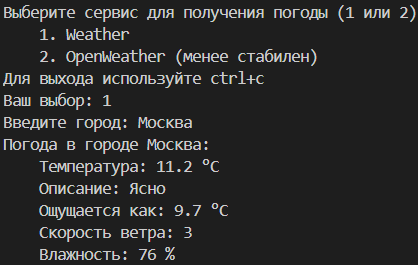
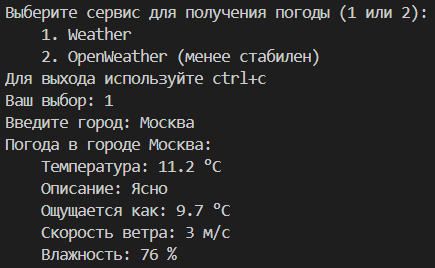
reply text fix. modified image for README file

Changed region(s): [[0.0, 0.1811, 0.7775, 0.9962], [0.0, 0.0, 0.9952, 0.1509], [0.0933, 0.1811, 0.1244, 0.2415]]

diff --git a/first.py b/first.py
@@ -77,7 +77,7 @@ def weather():
     Температура: {data['current']['temp_c']} °C
     Описание: {data['current']['condition']['text']}
     Ощущается как: {data['current']['feelslike_c']} °C
-    Скорость ветра: {kph_to_mps(data['current']['wind_kph'])}
+    Скорость ветра: {kph_to_mps(data['current']['wind_kph'])} м/с
     Влажность: {data['current']['humidity']} %'''
         print(reply_msg)
     else:
